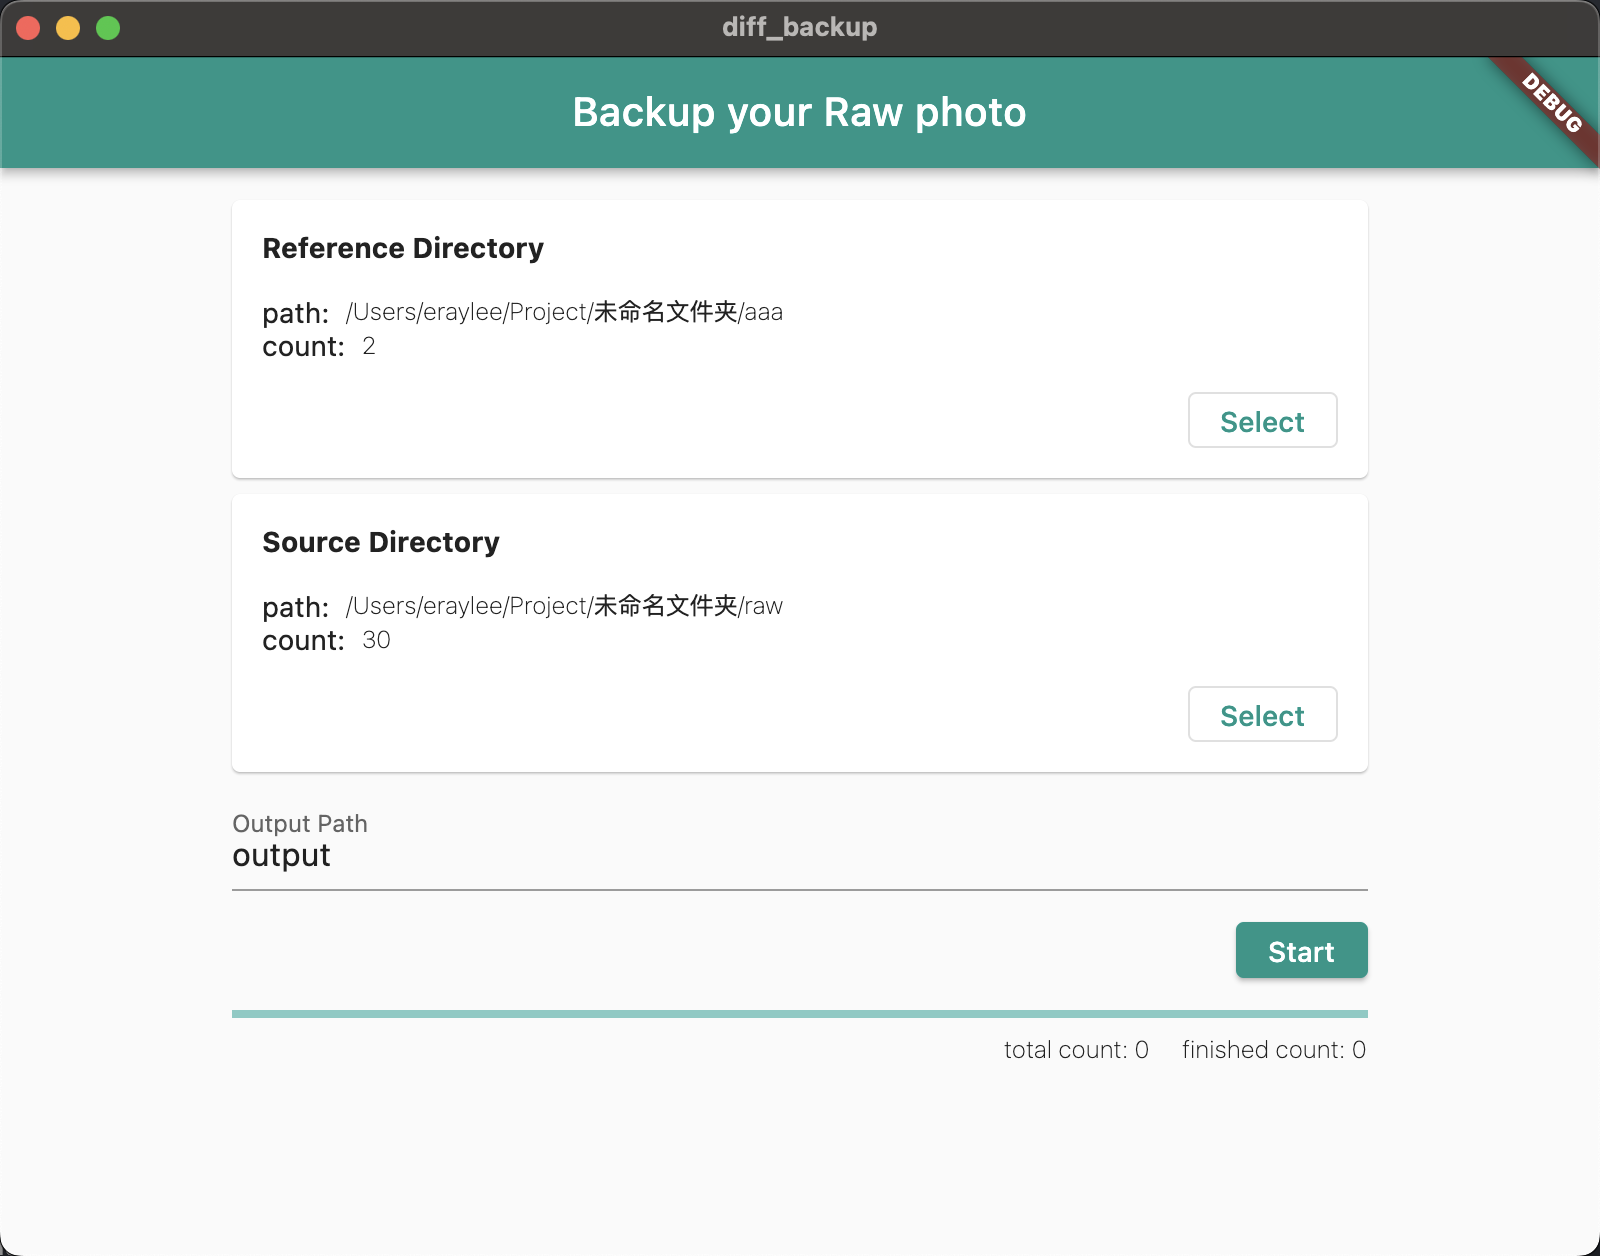
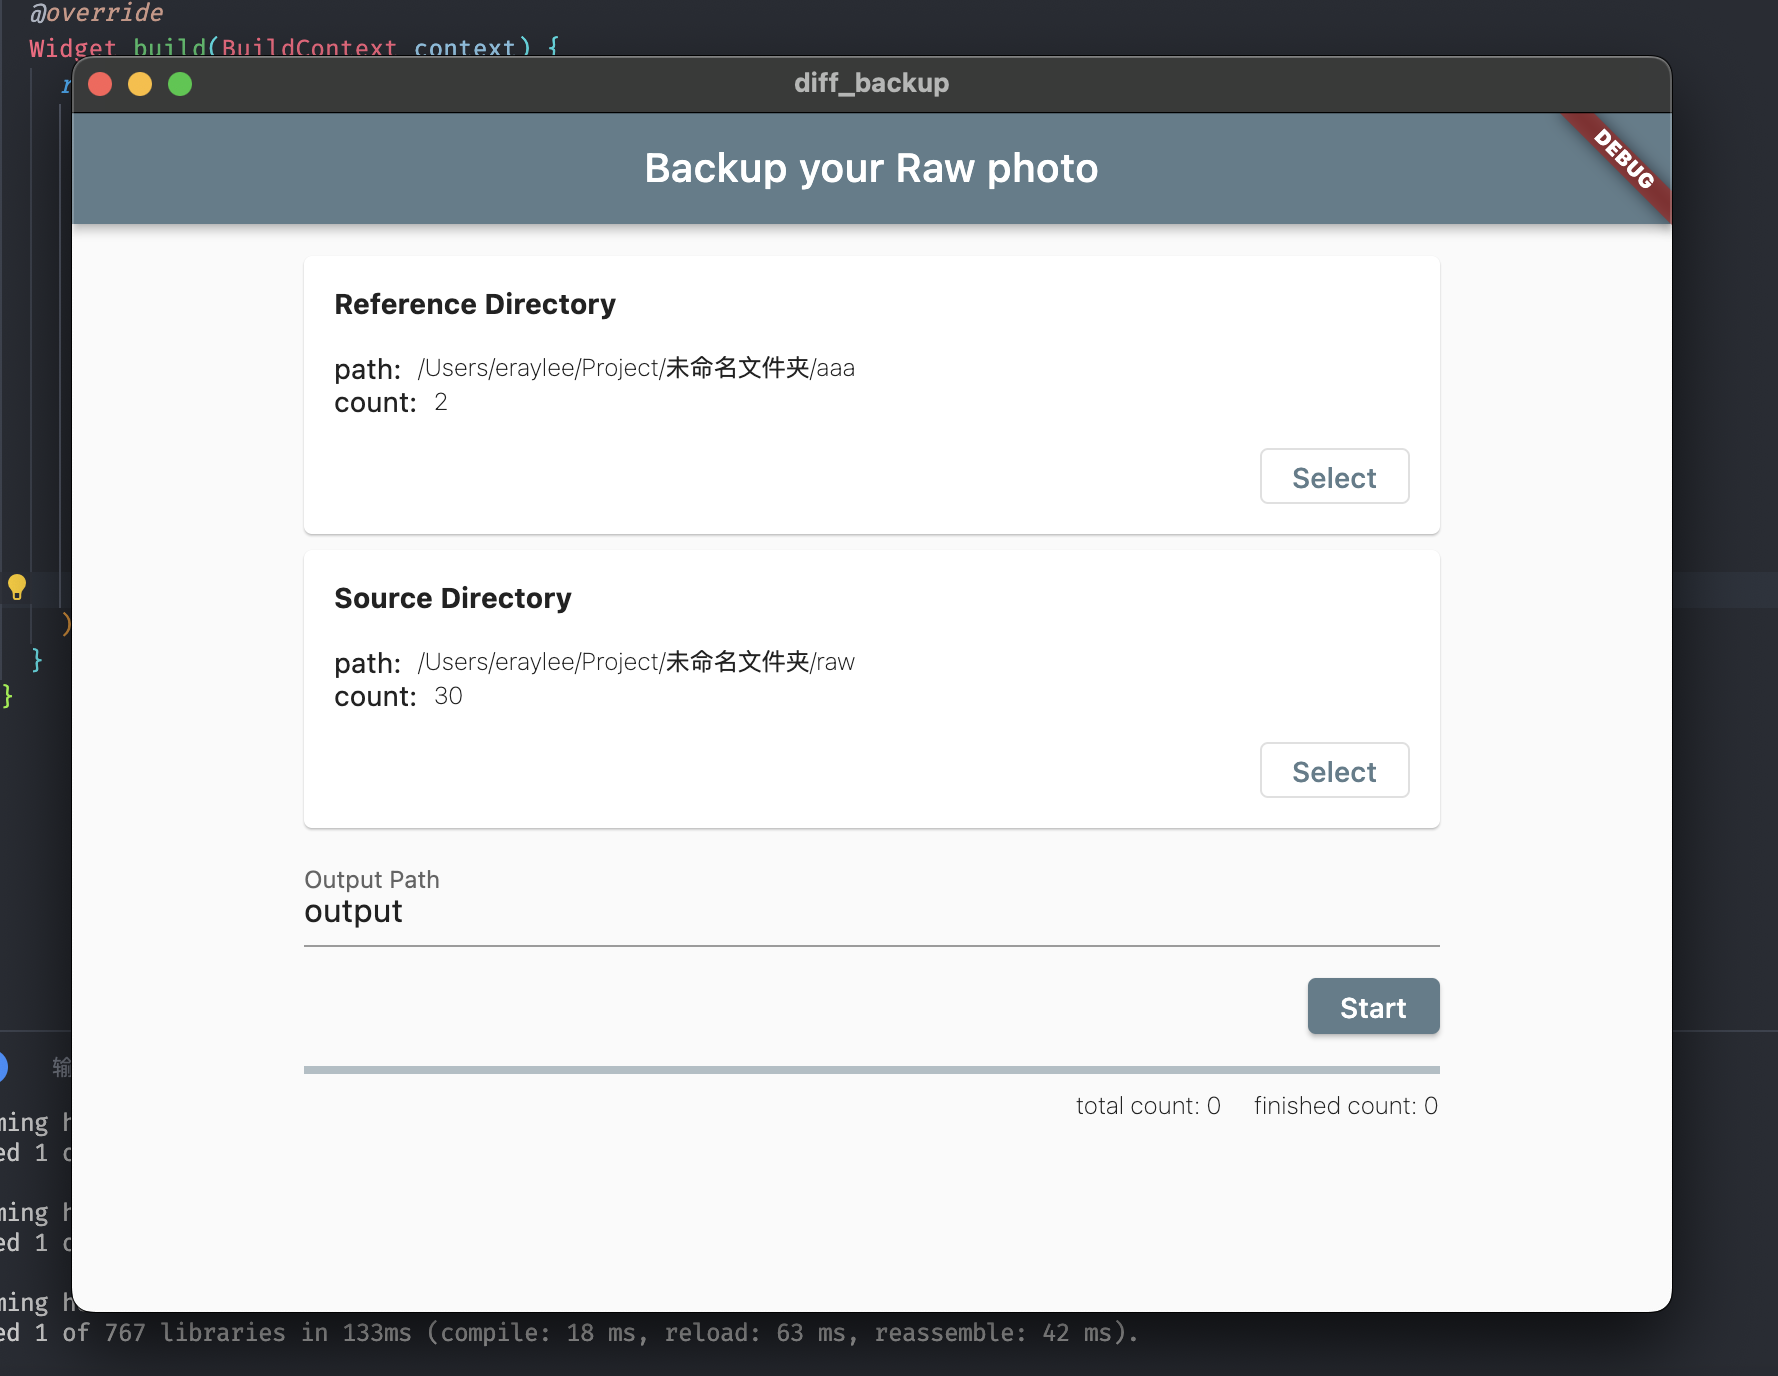
refactor: 🦄 modify theme

Changed region(s): [[0.0, 0.0, 1.0, 1.0], [0.1562, 0.5279, 0.875, 0.8384], [0.1562, 0.3105, 0.8125, 0.5279]]

diff --git a/lib/main.dart b/lib/main.dart
@@ -24,7 +24,7 @@ class MyApp extends StatelessWidget {
         // or simply save your changes to "hot reload" in a Flutter IDE).
         // Notice that the counter didn't reset back to zero; the application
         // is not restarted.
-        primarySwatch: Colors.teal,
+        primarySwatch: Colors.blueGrey,
       ),
       home: const HomePage(),
     );
